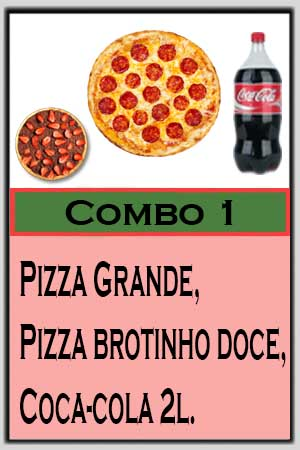
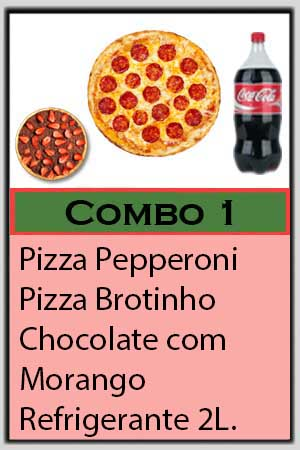
implementado imagem botão excluir, botão finalizar compra e imagens dos combos

Changed region(s): [[0.06, 0.4978, 0.96, 0.9956], [0.57, 0.4978, 0.6, 0.5289], [0.21, 0.4978, 0.24, 0.5289]]

diff --git a/js/carrinho.js b/js/carrinho.js
@@ -49,7 +49,7 @@ botaoAdiciona.addEventListener("click", function(event) {
         "<td class='pizza-nome'>" + nomePizza + "</td>" +
         "<td class='pizza-quantidade' id=" + idPizza + ">1</td>" +
         "<td class='pizza-preco' id='preco-2'>" + valPizza + "</td>" +
-        "<td class='pizza-excluir' id='exclui-2'></td>" +
+        "<td class='pizza-excluir' id='exclui-2'><img src='../img/btexcluir.png' class='btExcluir'></td>" +
         "</tr>"
     var todasPizzas = document.querySelector("table");
     todasPizzas.innerHTML += novaPizza;
@@ -57,9 +57,6 @@ botaoAdiciona.addEventListener("click", function(event) {
     var spanTotal = document.querySelector("#total");
     spanTotal.innerHTML = total;
 });
-
-
-
 
 
 

diff --git a/carrinho.html b/carrinho.html
@@ -76,9 +76,10 @@
                     <th>Quantidade</th>
                     <th>Preço</th>
                     <th>Excluir</th>
-                </tr>                
+                </tr>   
+                             
             </table>
-            <span>Total: R$ </span><span id="total">0.00</span>
+            <span id="spanTotal"><span>Total: R$ </span><span id="total">0.00</span><button id="finalizarCompra" onclick="emManutencao();">Finalizar Compra</button></span>
     </div>
     <!-- rodapé da pagina com dados de contato e link para redes sociais -->
     <footer id="footer">

diff --git a/css/carrinho.css b/css/carrinho.css
@@ -102,3 +102,13 @@ button:active{
 form{
     margin-left: 40%;
 }
+.btExcluir{
+    height: 25px;
+    width: none;
+}
+#spanTotal{
+    margin-left: 40%;
+}
+#finalizarCompra{
+    margin-left: 1% ;
+}
